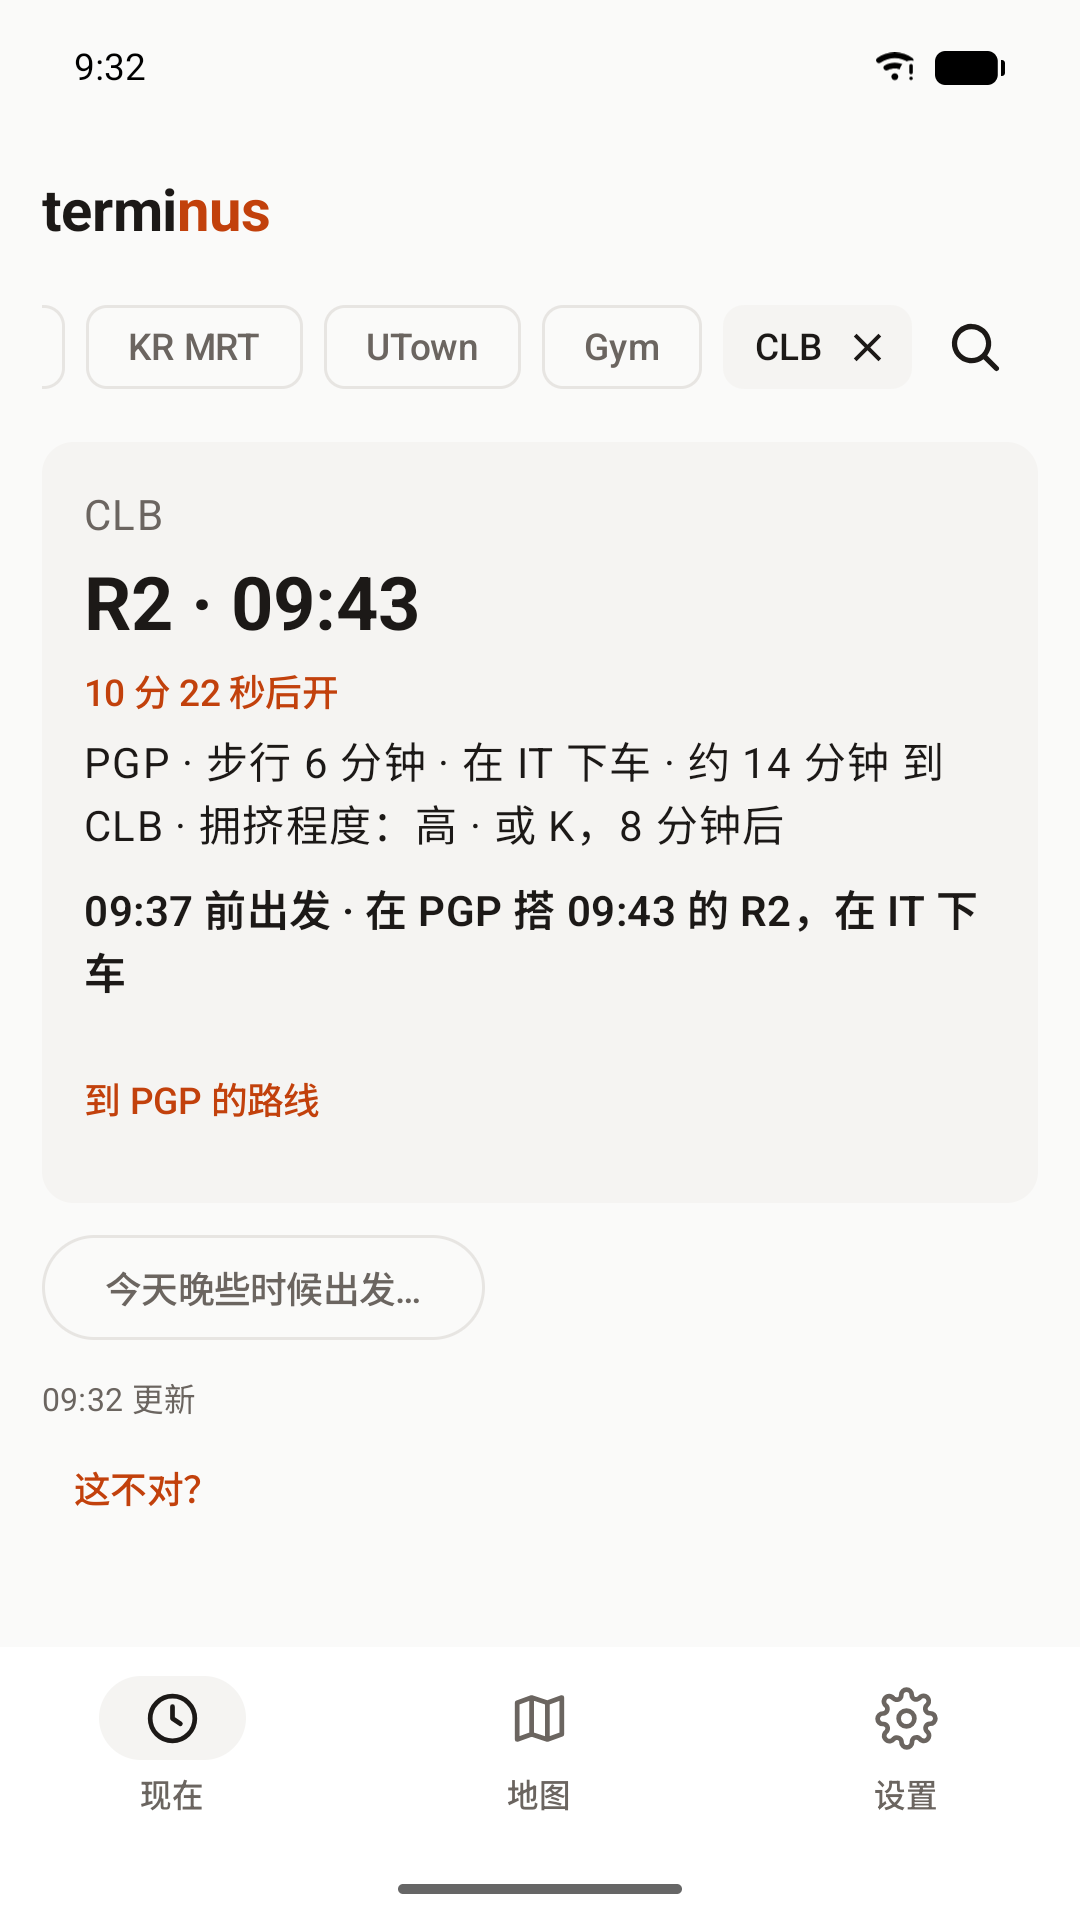
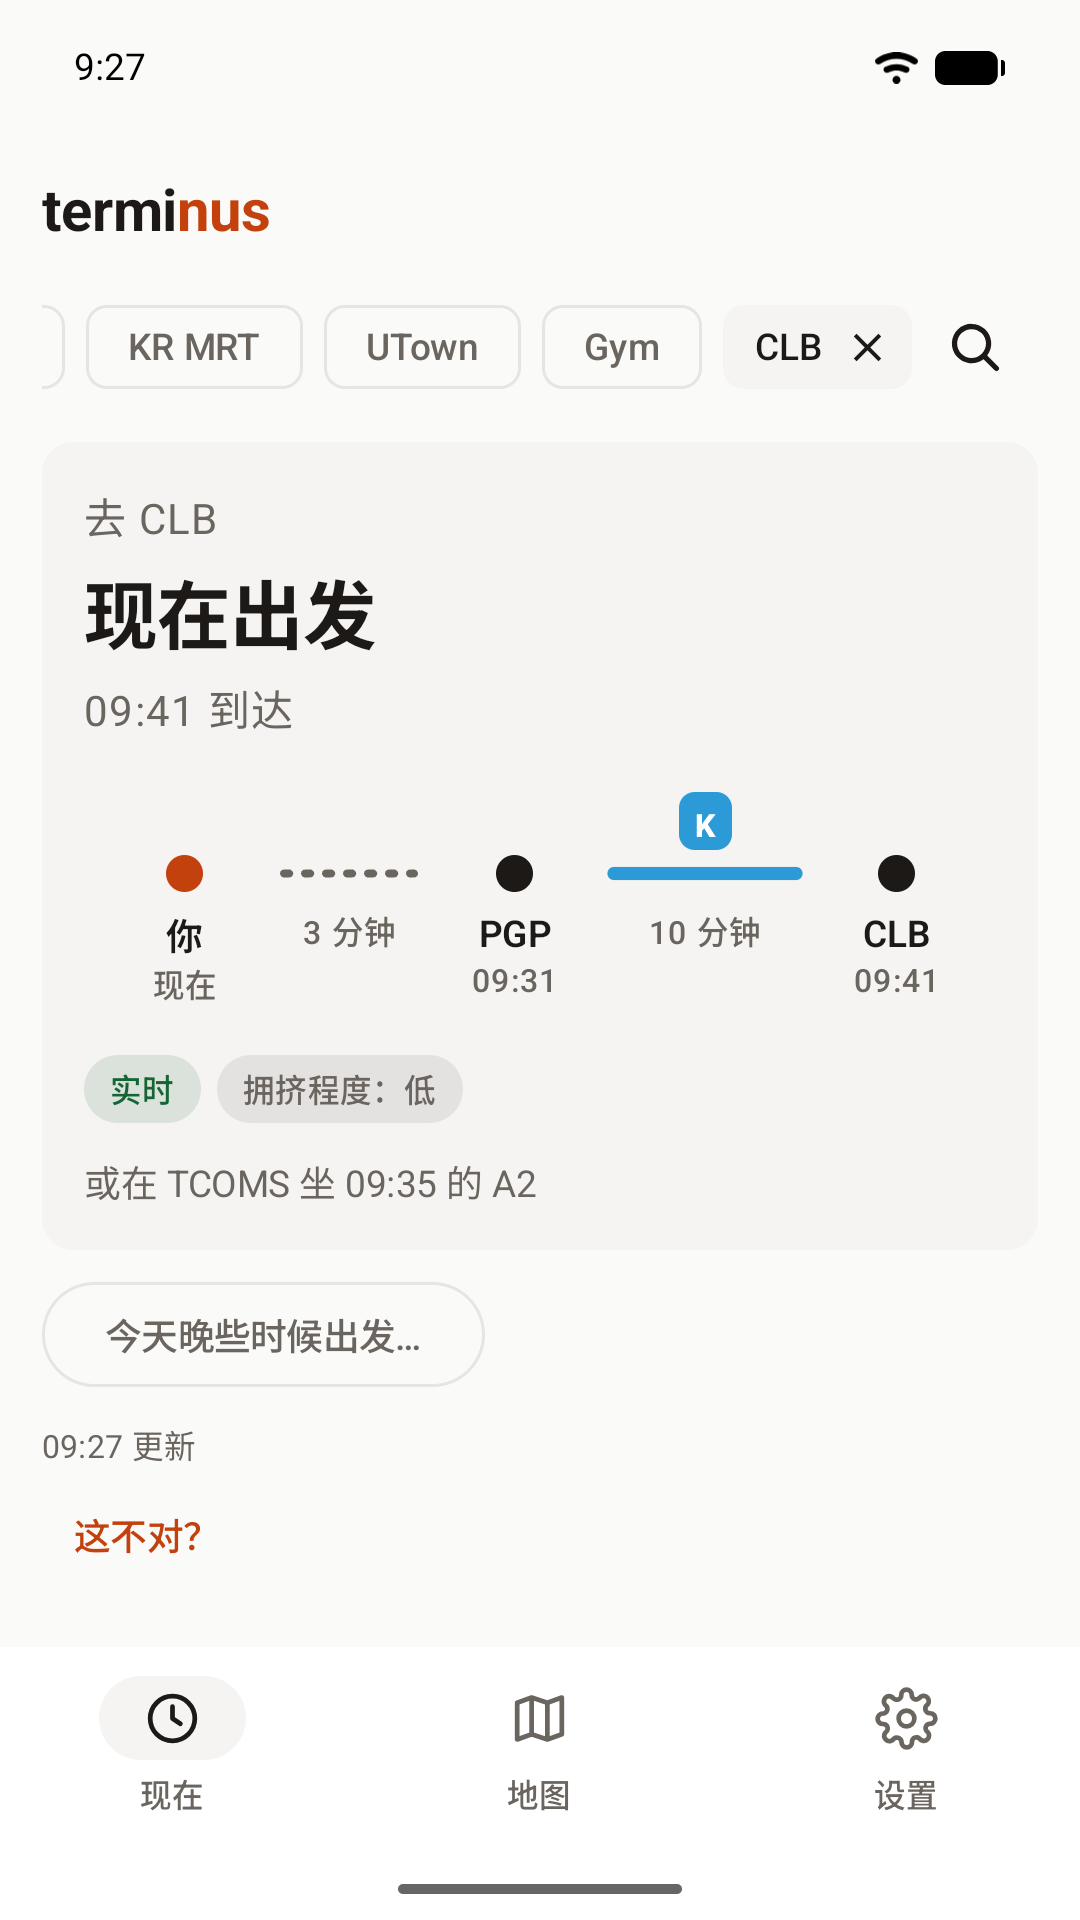
docs: screenshots and listing show the trip on a line
- Play: 1-leave-by, 2-widget and 3-places, English and Chinese, show
  the Route card and widget; 4 and 5 (on the bus, Nearby) are as they
  were. The full description mentions the card styles.
- Website: the phone, widget and account-page shots (light and dark)
  and their alt text, the README banners and the link preview image.

diff --git a/apps/web/public/assets/zh.js b/apps/web/public/assets/zh.js
@@ -259,16 +259,16 @@ window.TERMINUS_ZH = {
  "Thanks for the report. It helps us improve terminus.": "感谢你的反馈，这能帮助我们改进 terminus。",
  "That device is now signed in.": "那台设备已经登录了。",
  "You're all set. It updates throughout the day and stays quiet in the evening.": "设置完成。它会全天更新，晚上则保持安静。",
- "The Android home-screen widget: leave by 6:00 PM for CS2030, with buttons for favourites.": "Android 主屏幕小组件：下午 6:00 前出发去上 CS2030，带有收藏按钮。",
+ "The Android home-screen widget: leave by 9:39 AM for GEA1000, with the trip drawn as a line from you to PGP to UTown, and buttons for favourites.": "Android 主屏幕小组件：上午 9:39 前出发去 GEA1000，行程画成一条线，从你到 PGP 再到 UTown，还有收藏按钮。",
  "The D2 never came, the walk is longer than that…": "D2 一直没来、步行比说的久…",
  "The Mac menu bar app: leave by 9:41 for CS2030 at 10:00, catch the 9:45 D2 at PGP.": "Mac 菜单栏应用：9:41 前出发去上 10:00 的 CS2030，在 PGP 搭 9:45 的 D2。",
- "The account page: a timetable of three classes, and a live preview of your widget saying leave by 9:28 AM, in 8 minutes, and catch the 9:30 AM D2 at PGP, arriving 5 minutes early.": "账户页面：三节课的课表，以及小组件的实时预览：上午 9:28 前出发，还有 8 分钟，在 PGP 搭上午 9:30 的 D2，早到 5 分钟。",
+ "The account page: the timetable, and a live preview of your card saying leave in 10 minutes, by 09:37: walk 5 minutes to PGP, take the 09:42 R2 and arrive at UTown at 09:52, 8 minutes early.": "账户页：课表，以及卡片的实时预览：10 分钟后出发，09:37 前：步行 5 分钟到 PGP，坐 09:42 的 R2，09:52 到达 UTown，早到 8 分钟。",
  "The start time must be before the end time": "开始时间必须早于结束时间",
  "The latest bus that still gets you there, walks along real campus paths at your pace, and a bus earlier when yours is usually busy.": "最晚还能让你准时到的那班巴士，按你的步速沿真实校园路线计算步行时间，你那班经常很挤时就提早一班。",
  "Which NUS shuttle bus to catch, from which stop, and when to leave, from your NUSMods timetable. Live bus times, a campus map, an Android widget, a Mac menu bar app and the web. Free, and not affiliated with NUS.": "根据你的 NUSMods 课表，告诉你该搭哪一班 NUS 校园巴士、在哪个车站搭，以及什么时候出发。实时巴士时间、校园地图、Android 小组件、Mac 菜单栏应用和网页版。免费，与 NUS 无关联。",
  "The right side of the road": "在对的那一边",
  "The same answer on your phone, your Mac and the web, in light or dark.": "在手机、Mac 和网页上都是同一个答案，浅色或深色模式都可以。",
- "The terminus Android app: GEA1000 at UTown starts 6:58 PM. Leave by 6:36 PM, in 8 minutes, and catch the 6:38 PM D2 at PGP to arrive at 6:53 PM, 5 minutes early; D2 is often busy at PGP around then. Or go now on the 6:31 PM R2.": "terminus Android 应用：UTown 的 GEA1000 下午 6:58 开始。下午 6:36 前出发（还有 8 分钟），在 PGP 搭下午 6:38 的 D2，下午 6:53 到达，早到 5 分钟；那个时间 PGP 的 D2 经常很挤。或者现在就搭下午 6:31 的 R2。",
+ "The terminus Android app: to GEA1000 at UTown, starting 10:00 AM. Leave in 12 minutes, by 9:39 AM: walk 3 minutes to PGP, take the 9:42 AM R2 for 10 minutes, and arrive at UTown at 9:52 AM, 8 minutes early. Or go now on the 9:37 AM D2.": "terminus Android 应用：去 UTown 的 GEA1000，上午 10:00 开始。12 分钟后出发，上午 9:39 前：步行 3 分钟到 PGP，坐上午 9:42 的 R2 乘车 10 分钟，上午 9:52 到达 UTown，早到 8 分钟。或现在走，坐上午 9:37 的 D2。",
  "The trip home": "回家的行程",
  "This browser cannot share its location.": "这个浏览器无法分享位置。",
  "This code works once, for 10 minutes.": "这个代码只能用一次，有效 10 分钟。",

diff --git a/apps/web/public/index.html b/apps/web/public/index.html
@@ -188,7 +188,7 @@
     <div class="hero-shot">
       <div class="phone">
         <div class="split" data-split>
-          <img class="half light" src="/assets/shots/app-light.webp" width="600" height="1339" alt="The terminus Android app: GEA1000 at UTown starts 6:58 PM. Leave by 6:36 PM, in 8 minutes, and catch the 6:38 PM D2 at PGP to arrive at 6:53 PM, 5 minutes early; D2 is often busy at PGP around then. Or go now on the 6:31 PM R2." fetchpriority="high">
+          <img class="half light" src="/assets/shots/app-light.webp" width="600" height="1339" alt="The terminus Android app: to GEA1000 at UTown, starting 10:00 AM. Leave in 12 minutes, by 9:39 AM: walk 3 minutes to PGP, take the 9:42 AM R2 for 10 minutes, and arrive at UTown at 9:52 AM, 8 minutes early. Or go now on the 9:37 AM D2." fetchpriority="high">
           <img class="half dark" src="/assets/shots/app-dark.webp" width="600" height="1339" alt="" aria-hidden="true">
         </div>
       </div>
@@ -204,7 +204,7 @@
         <div class="window-bar" aria-hidden="true"><i></i><i></i><i></i><span>terminus.rcn.sh/account</span></div>
         <picture class="shot">
           <source srcset="/assets/shots/web-dark.webp" media="(prefers-color-scheme: dark)">
-          <img src="/assets/shots/web-light.webp" width="1600" height="974" loading="lazy" alt="The account page: a timetable of three classes, and a live preview of your widget saying leave by 9:28 AM, in 8 minutes, and catch the 9:30 AM D2 at PGP, arriving 5 minutes early.">
+          <img src="/assets/shots/web-light.webp" width="1600" height="974" loading="lazy" alt="The account page: the timetable, and a live preview of your card saying leave in 10 minutes, by 09:37: walk 5 minutes to PGP, take the 09:42 R2 and arrive at UTown at 09:52, 8 minutes early.">
         </picture>
       </div>
       <figcaption><h3>Set up on the web</h3><p>Import your NUSMods timetable, pick where you live and how fast you walk, and see exactly what your widget will say.</p></figcaption>
@@ -212,7 +212,7 @@
     <figure class="half-col">
       <picture class="home-screen shot">
         <source srcset="/assets/shots/widget-dark.webp" media="(prefers-color-scheme: dark)">
-        <img src="/assets/shots/widget-light.webp" width="900" height="563" loading="lazy" alt="The Android home-screen widget: leave by 6:00 PM for CS2030, with buttons for favourites.">
+        <img src="/assets/shots/widget-light.webp" width="900" height="563" loading="lazy" alt="The Android home-screen widget: leave by 9:39 AM for GEA1000, with the trip drawn as a line from you to PGP to UTown, and buttons for favourites.">
       </picture>
       <figcaption><h3>On your home screen</h3><p>A widget that keeps itself up to date, with your favourites one tap away. Or a live notification, and a heads-up before you need to leave.</p></figcaption>
     </figure>
